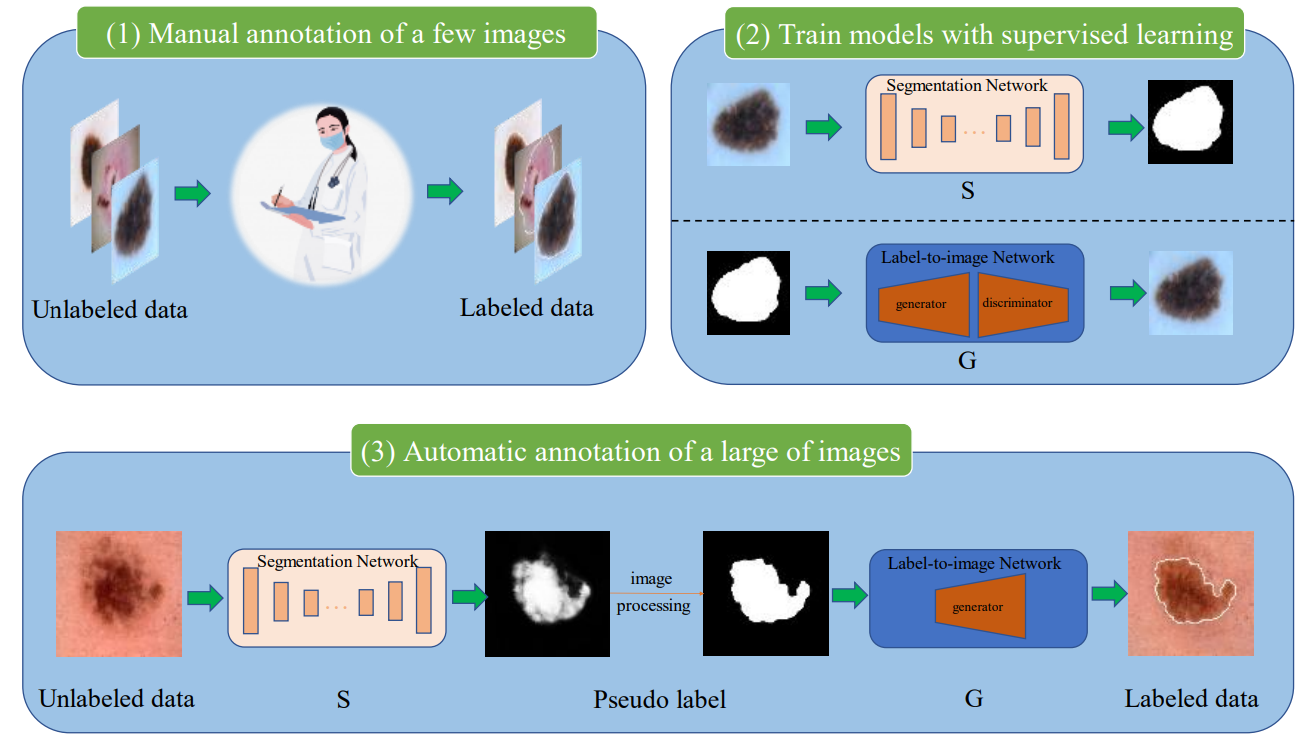
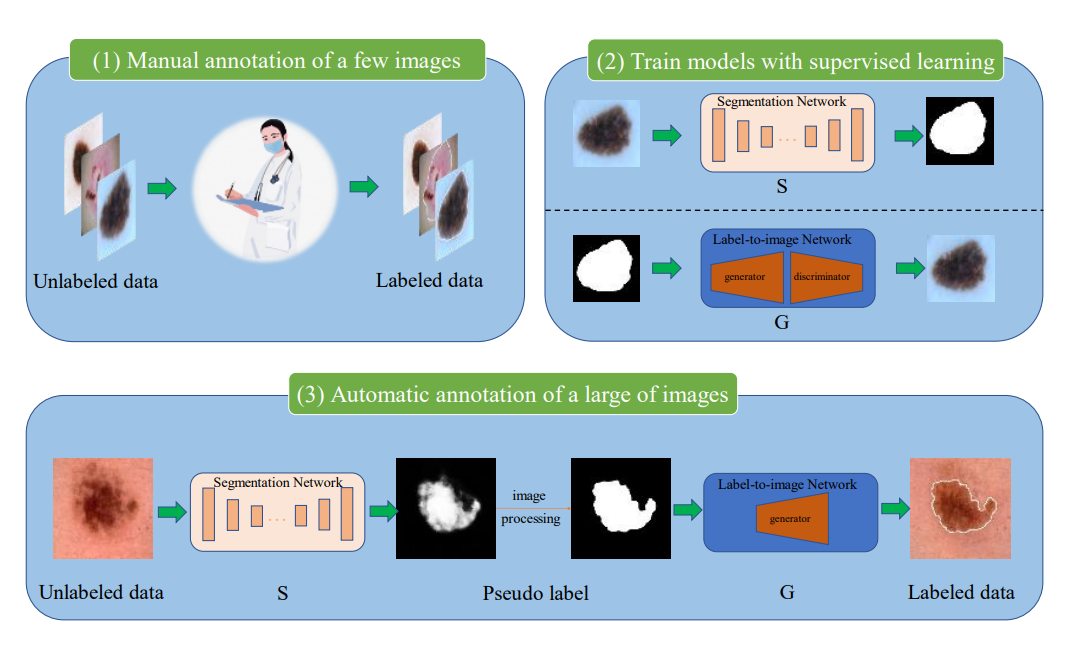
update README.md and index.html

diff --git a/index.html b/index.html
@@ -120,7 +120,7 @@
                         <div class="publication-details">
                             <strong>MIPR: Automatic Segmentation Annotation of Medical Images via Generative Model</strong>
                             <div class="authors"><b>Haiming Zhu</b>, Pingping Dai, Hao Wang, Xiang Qian</div>
-                            <div class="venue">CISP-BMEI 2023 (Oral)</div>
+                            <div class="venue">IEEE CISP-BMEI 2023 (Oral)</div>
                             <div class="links">
                                 <a href="https://ieeexplore.ieee.org/abstract/document/10373337" target="_blank">PDF</a> /
                                 <a href="" target="_blank">Code</a> /
